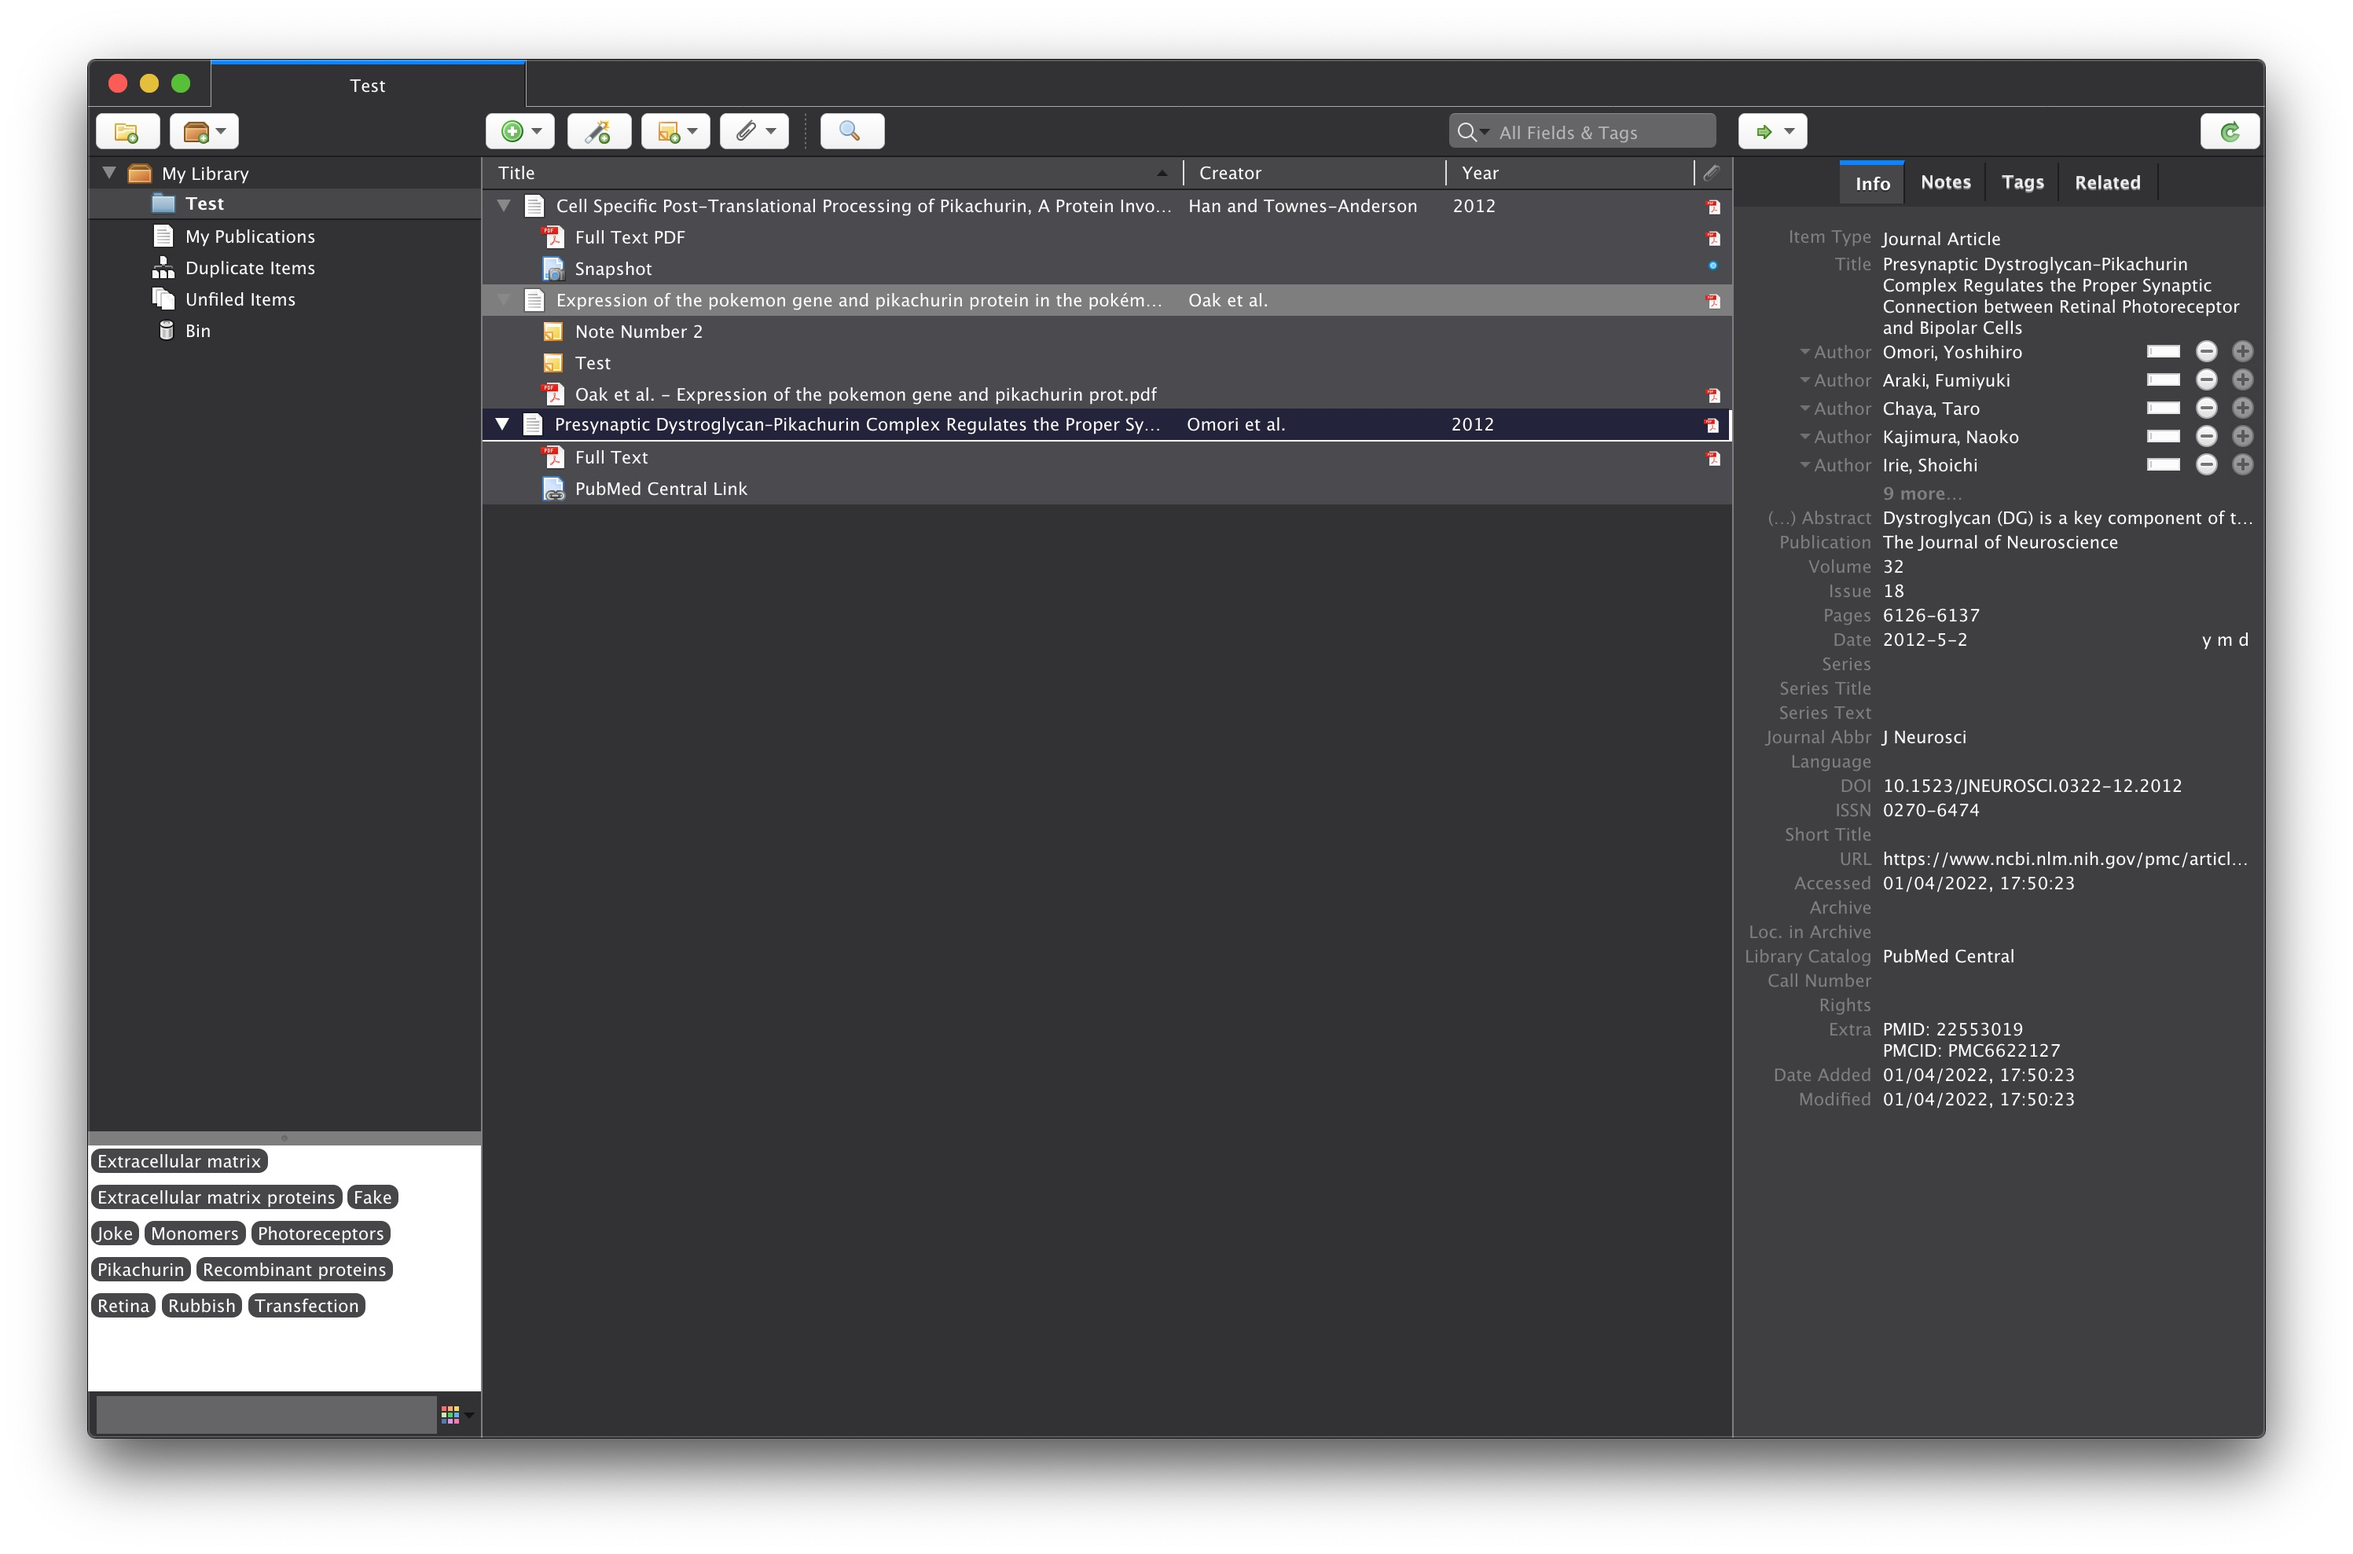
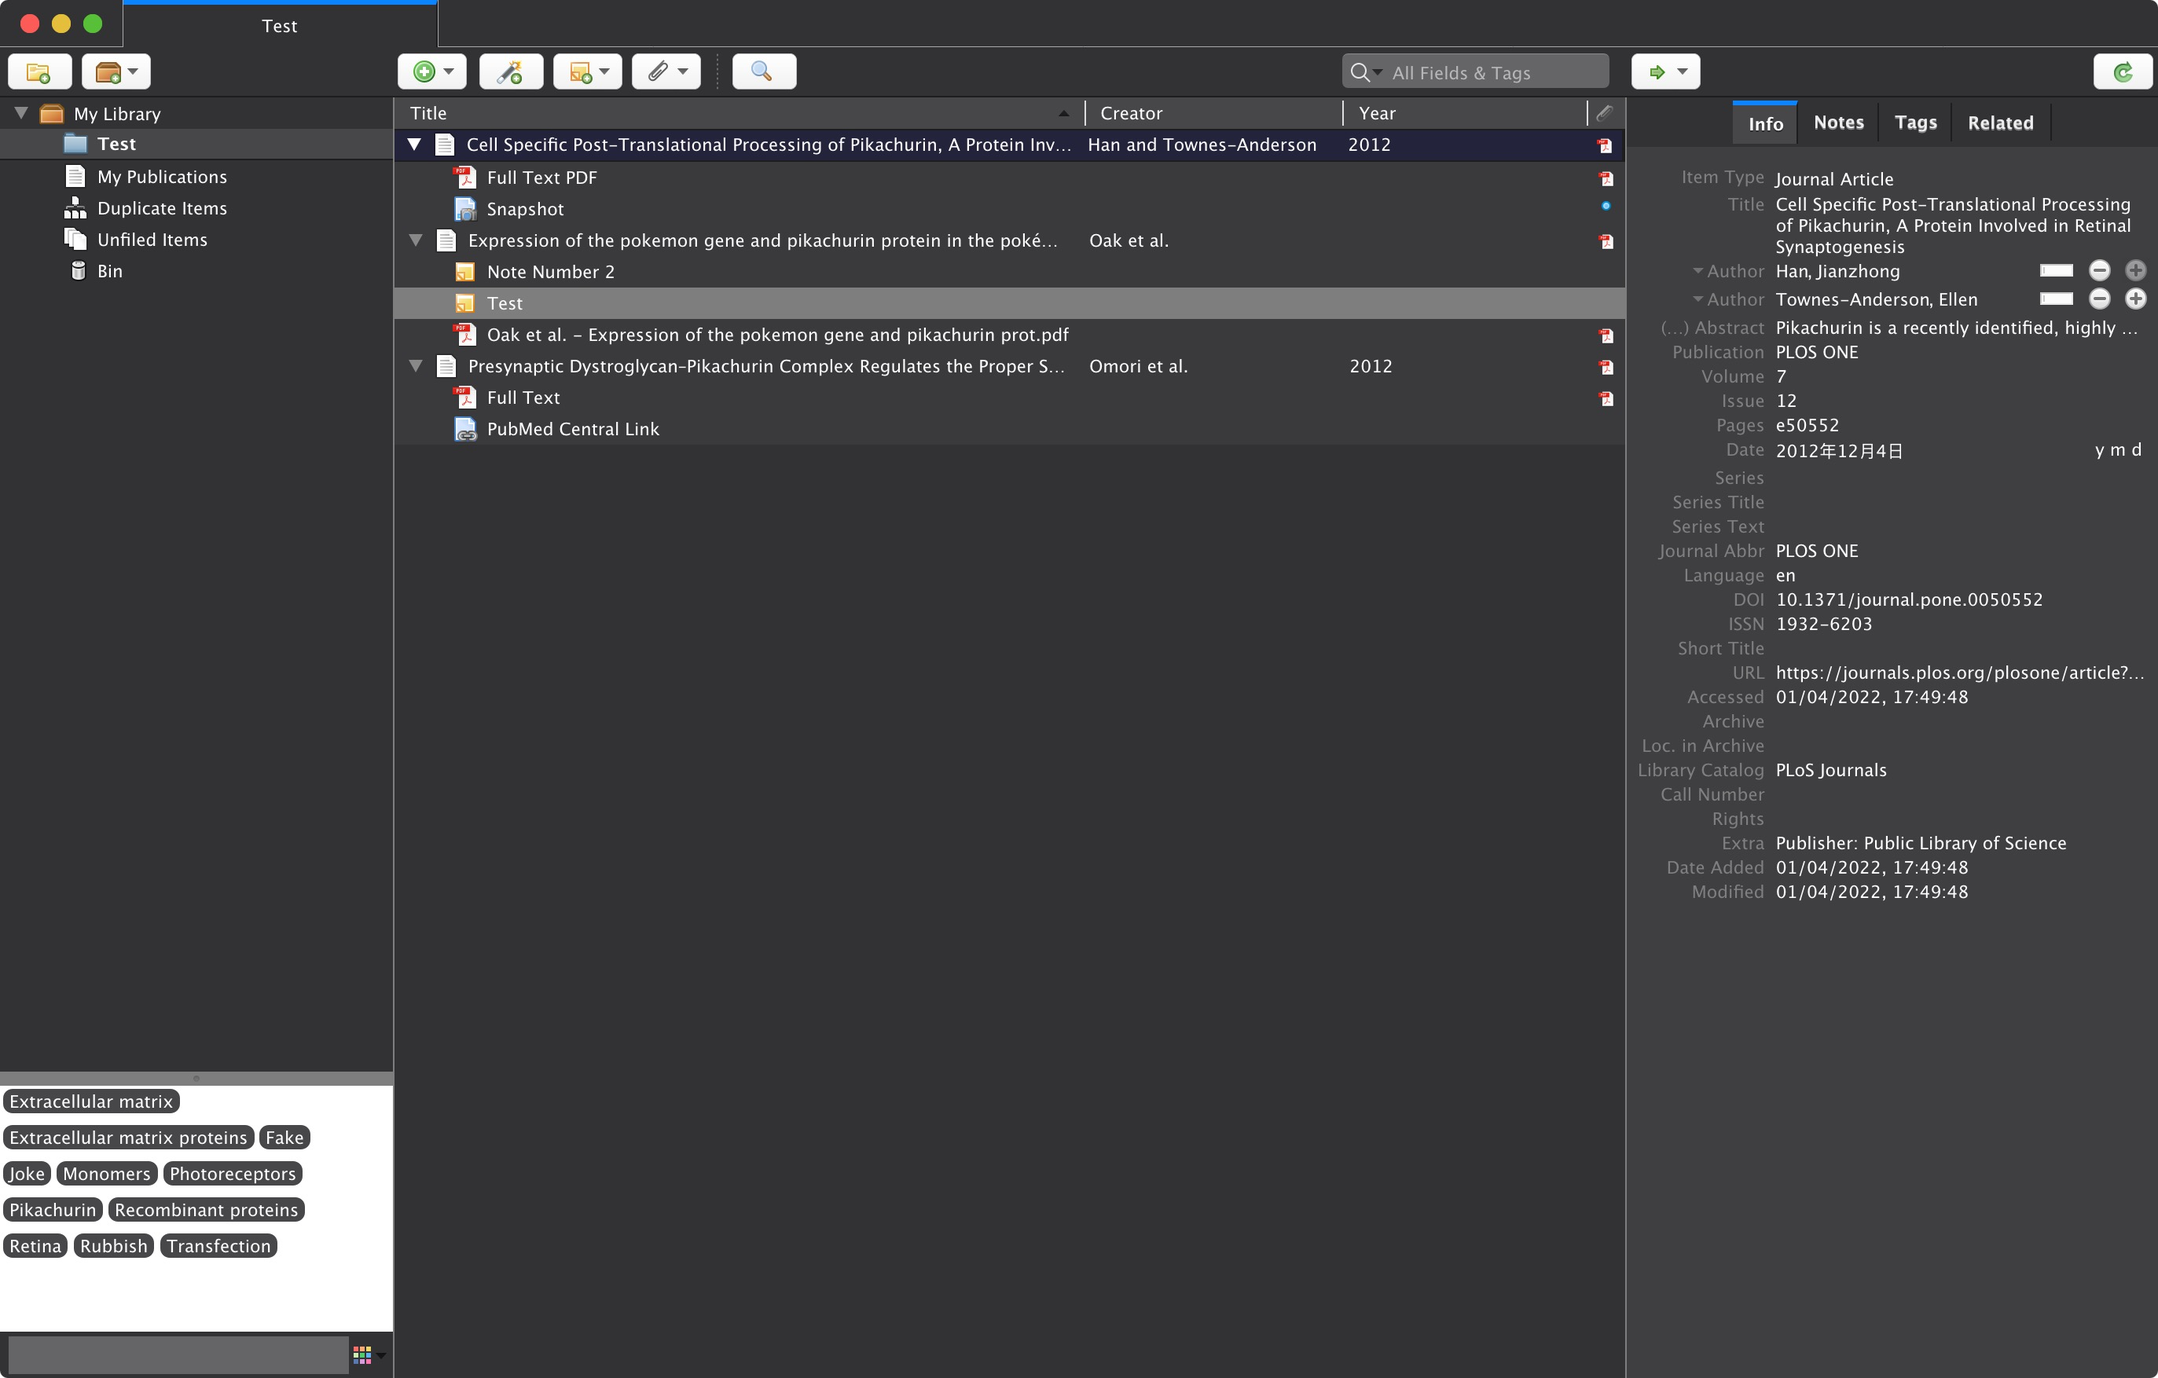
Fix screenshot and darken item tree colour

Changed region(s): [[0.0, 0.0, 1.0, 1.0]]

diff --git a/userChrome.css b/userChrome.css
@@ -17,10 +17,9 @@ border-bottom: 1px solid #1d1d1d !important;}
 color: #FFFFFF !important; border: 0 !important; }
 }
 
-
 #zotero-items-tree .virtualized-table  { background: #323234 !important;
 color: #FFFFFF !important; border: 0 !important; }
-#zotero-items-tree .virtualized-table .row  { background: #4b4b4e !important;
+#zotero-items-tree .virtualized-table .row  { background: #3a3a3c !important;
 color: #FFFFFF !important; border: 0 !important; }
 #zotero-items-tree .virtualized-table .row.selected  { background: #23233a !important;
 color: #FFFFFF !important; border: 0 !important; }
